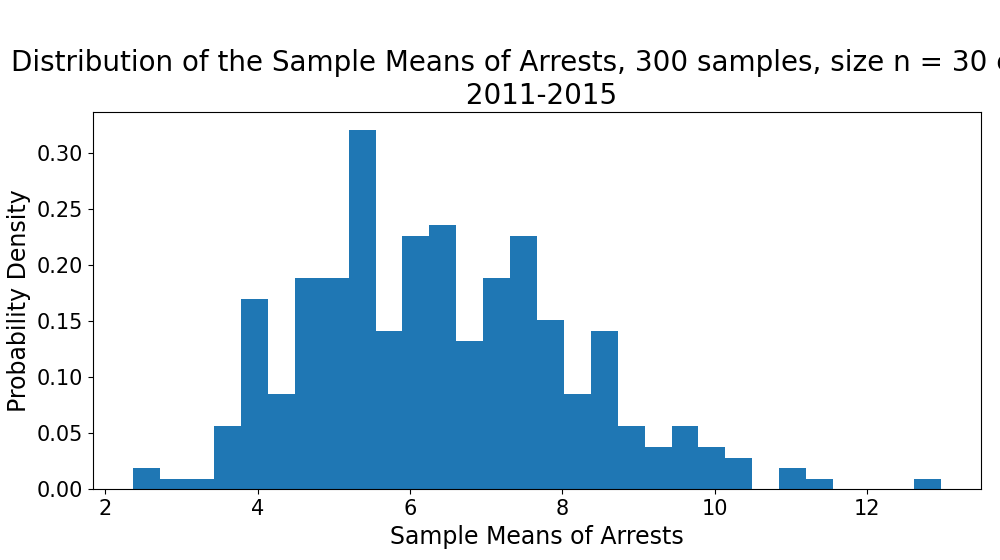
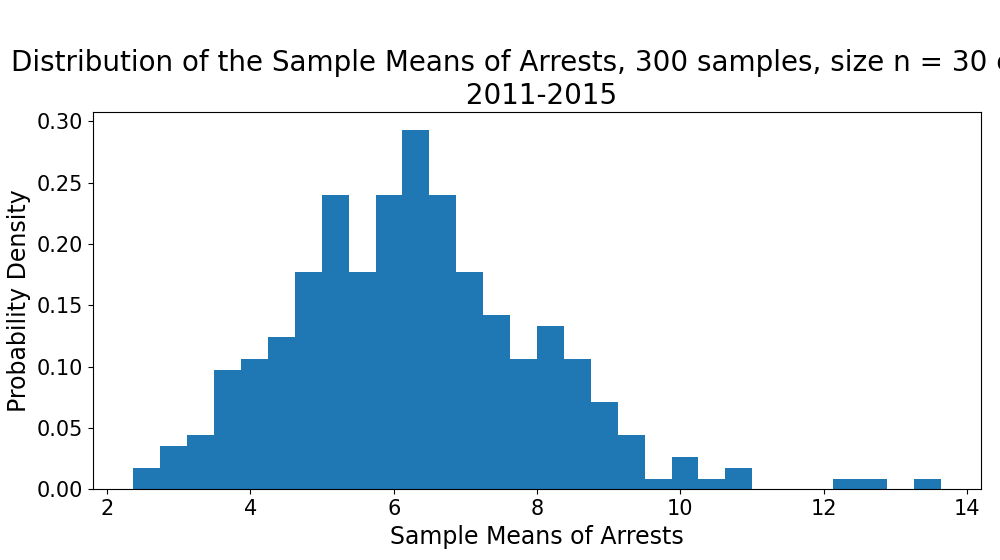
add clt calculation for ht win/loss arrests

diff --git a/main.py b/main.py
@@ -142,15 +142,17 @@ print(f"The ci for the var is {method.chi_2(score_games_lessthan_6_total)}")
 
 
 #--arrest stats
-mean_arrests_ht_win = stats.tmean(home_team_wins_arrests)
-mean_arrests_ht_loss = stats.tmean(home_team_losses_arrests)
+mean_arrests_ht_win = stats.tmean(ht_win_arrests_clt)
+mean_arrests_ht_loss = stats.tmean(ht_loss_arrests_clt)
 var_arrests_ht_win = stats.tmean(ht_win_arrests_clt_var)
 var_arrests_ht_loss = stats.tmean(ht_loss_arrests_clt_var)
 
-print(f"The average arrests where ht won {mean_arrests_ht_win}, ci {method.t_interval(home_team_wins_arrests)}")
-print(f"var {var_arrests_ht_win}, ci = {method.chi_2(home_team_wins_arrests)}")
-print(f"The average arrests where ht lost {mean_arrests_ht_loss}, ci {method.t_interval(home_team_losses_arrests)}")
-print(f"var {var_arrests_ht_loss}, ci = {method.chi_2(home_team_losses_arrests)}")
+print(f"The average arrests where ht won {mean_arrests_ht_win}, ci {method.t_interval(ht_win_arrests_clt)}")
+print(f"var {var_arrests_ht_win}, ci = {method.t_interval(ht_win_arrests_clt_var)}")
+print(f"The average arrests where ht lost {mean_arrests_ht_loss}, ci {method.t_interval(ht_loss_arrests_clt)}")
+print(f"var {var_arrests_ht_loss}, ci = {method.t_interval(ht_loss_arrests_clt_var)}")
+
+
 print(f"t-test {stats.ttest_ind(ht_win_arrests_clt,ht_loss_arrests_clt,equal_var=False)}")
 
 
@@ -158,7 +160,8 @@ print(f"t-test {stats.ttest_ind(ht_win_arrests_clt,ht_loss_arrests_clt,equal_var
 print('#'*20)
 print("Population Statistics: \n")
 avg_total_points_scored = stats.tmean(total_points_cut)
-print(f"Average total points scored {avg_total_points_scored}, ci: {method.t_interval(total_points_cut)}, n = {len(total_points_cut)}")
+print(f"Average total points scored {avg_total_points_scored}, ci: {method.t_interval(total_points_cut)}, \n "
+      f"n = {len(total_points_cut)} var = {stats.tvar(total_points_cut)} ci = {method.chi_2(total_points_cut)}")
 avg_point_diff = stats.tmean(point_differential)
 print(f"Average point differential {avg_point_diff} ci: {method.t_interval(point_differential)}, n = {len(point_differential)}")
 
@@ -184,7 +187,7 @@ clt_var_arrests = method.random_sample(arrests_cut, var=True) #extract the dist 
 #---by clt, the mean of the distribution of clt is the population variance
 clt_var_arrests_val = stats.tmean(clt_var_arrests)
 print(f'The variance in the number of arrests per game is {clt_var_arrests_val}, std is {sqrt(clt_var_arrests_val)}')
-ci_v = stats.t.interval(0.05, len(clt_var_arrests) - 1, loc=clt_var_arrests_val)
+ci_v = method.t_interval(clt_var_arrests)
 print(f"The confidence interval of the variance by chi squared dist is {ci_v}")
 
 # print("The total arrests by team: ")
@@ -366,4 +369,4 @@ pyplot.savefig('ArrestsByHomeTeam.png')
 # pyplot.title("Average Arrests by team, 2011-2015")
 
 
-pyplot.show()
+#pyplot.show()

diff --git a/method.py b/method.py
@@ -18,10 +18,10 @@ def random_sample(frame : pd,samples_total = 300, sample_size = 30,var = False):
             sample_stats.append(stats.tmean(samples))
     return sample_stats
 
-def t_interval(list, alf = .05):
+def t_interval(list, alf = .95):
     return stats.t.interval(alf,len(list)-1, loc = stats.tmean(list) )
 
-def chi_2(list, alf = .05):
+def chi_2(list, alf = .95):
     upper = ((len(list)-1)*stats.tvar(list)) / (stats.chi2.ppf(alf/2, len(list)-1))
     lower = ((len(list)-1)*stats.tvar(list)) / (stats.chi2.ppf(1 - (alf/2), len(list)-1))
 
